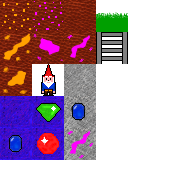
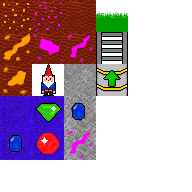
AntiGravity image added

Changed region(s): [[0.5, 0.3125, 0.6875, 0.5]]

diff --git a/app/sprites/Shop.py b/app/sprites/Shop.py
@@ -64,7 +64,7 @@ class Shop(pygame.sprite.Sprite):
     def addUpgrades(self):
         self.addUpgrade('spring','trempo1',self.buySpring,10,SHOP_REPEATABLE)
         self.addUpgrade('ladder', 'ladder', self.buyLadder, 150, SHOP_REPEATABLE)
-        self.addUpgrade('antiGravity', 'pig', self.buyAntiGravity, 50000, SHOP_REPEATABLE)
+        self.addUpgrade('antiGravity', 'antiGravity', self.buyAntiGravity, 50000, SHOP_REPEATABLE)
 
         self.addUpgrade('pickaxeLvl2', 'pickaxeLvl2', self.buyPickaxe2, 100, SHOP_AVAILABLE)
         self.addUpgrade('pickaxeLvl3', 'pickaxeLvl3', self.buyPickaxe3, 10000, SHOP_AVAILABLE)
